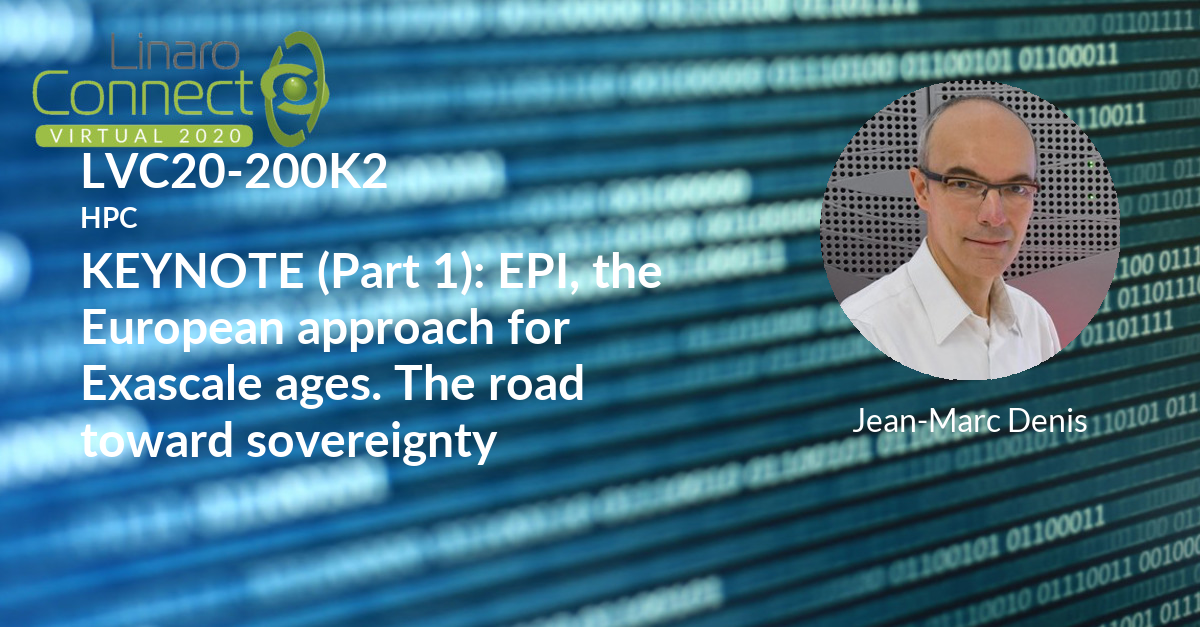
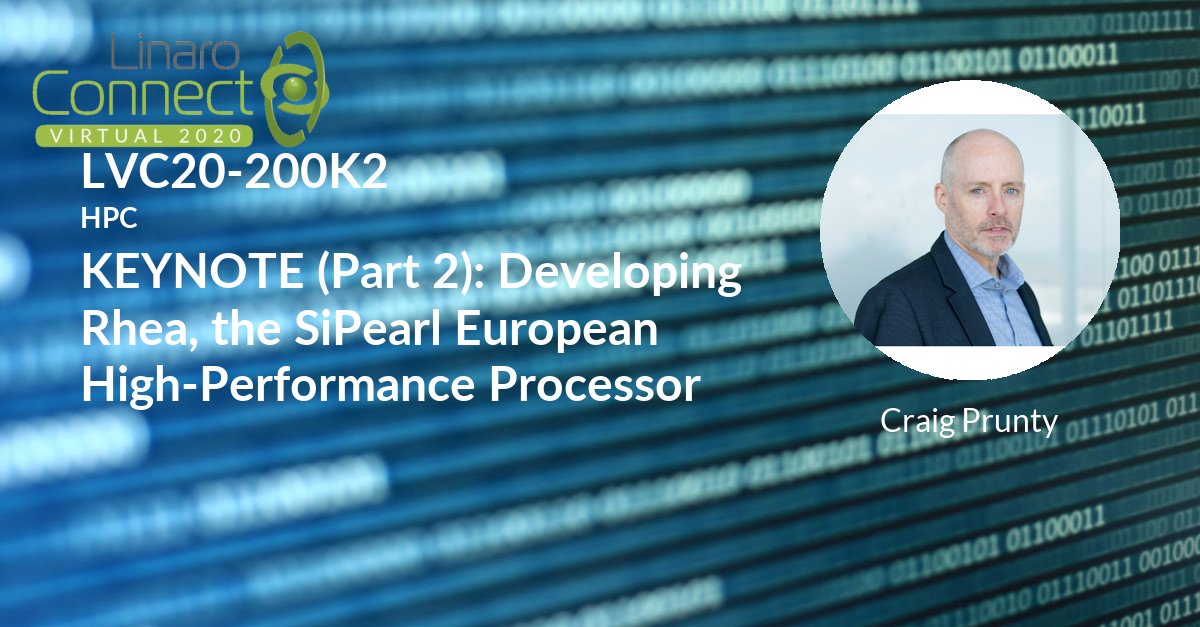
Session update for session-update-200918-1602

diff --git a/_posts/lvc20/sessions/2020-09-18-lvc20-200k1.md b/_posts/lvc20/sessions/2020-09-18-lvc20-200k1.md
@@ -1,36 +1,54 @@
 ---
 categories:
 - lvc20
-description: SiPearl was founded in 2019 as the production hand of the European Processor
-  Initiative. Now at 22 employees, we are growing fast to deploy our first generation
-  processor, Rhea, as the cornerstone of European Exascale systems. In this talk we
-  provide an overview of SiPearl and our objectives and discuss some of the top level
-  architecture choices and KPI to address our target markets. A fundamental for the
-  selection of Arm is the server software and partner ecosystem that has grown steadily
-  over the years thanks to the user community with the help of organizations such
-  as Linaro.
+description: 'The European Commission has set an extremely ambitious target to the
+  European Processor Initiative (EPI): develop the processor that will empower the
+  European Exascale machines, and laid the foundations of the European Sovereignty
+  for high-performance and low-power processing units. The European ambition and how
+  it is implemented is presented.'
 image: /assets/images/featured-images/lvc20/LVC20-200K1.png
 session_id: LVC20-200K1
 session_room: '[Track 1] IoT/Edge/Embedded'
 session_slot:
-  end_time: 2020-09-23 07:50
-  start_time: 2020-09-23 07:35
+  end_time: 2020-09-23 07:55
+  start_time: 2020-09-23 07:40
 session_speakers:
-- speaker_bio: Craig joined SiPearl in May 2020 as VP Marketing and Business Development.
-    Before moving to SiPearl, Craig was Marketing Director for Marvell Semiconductor’s
-    Server Processor Business Unit in Santa Clara, California. His 20+ years in the
-    Semiconductor industry include sales, marketing, and technical roles with Cavium,
-    AppliedMicro (AMCC), Lockheed-Martin, and Unisys. &amp;nbsp;Craig holds a B.S.
-    in Mathematics from Lewis &amp;amp; Clark College in Portland, Oregon, and an
-    MS in Electrical Engineering from San Diego State University.
+- speaker_bio: Since the beginning of 2020, Jean-Marc is the Chief of Staff of the
+    Innovation and Strategy Division at Atos. In addition, since mid-2018, Jean-Marc
+    has been also elected as Chair of the Board of the European Processor Initiative
+    (EPI).&lt;br&gt;Prior to that, Jean-Marc Denis took different positions in the
+    HPC industry.&lt;br&gt;After five years of research in the development of new
+    solvers for the for Maxwell equations at Matra Defense (France) as mathematician
+    from 1990 to 1995, Jean-Marc Denis had several technical position in the HPC industry
+    between 1995 to 2004 from &amp;nbsp;HPC pre-sales to Senior Solution Architect.&lt;br&gt;Since
+    mid if 2004 Jean-Marc has worked at Bull SAS head Quarter (France) where he has
+    started the HPC activity. In less than 10 years, the HPC revenue at Bull exploded
+    from nothing in 2004 to 200M€ in 2015, making Bull the undisputed leader of the
+    European HPC industry and the fourth in the world. From 2011 to the end of 2016,
+    Jean-Marc has leaded the worldwide business activity with the goal to consolidate
+    the ATOS/Bull position in Europe and to make ATOS/Bull a worldwide leader in Extreme
+    Computing with footprint in Middle-East, Asia, Africa and South America.&lt;br&gt;From
+    2018 to 2020, Jean-Marc has been the head of Strategy and Plan at Atos/Bull, in
+    charge of the global cross-Business Unit Strategy and of the definition of the
+    3 years business plan.&lt;br&gt;In 2016 and 2017, Jean-Marc has been in charge
+    of the definition of the strategy for the BigData Division at ATOS/Bull. In his
+    position, his role is to define the global approach for the different BigData
+    business lines covering HPC, Legacy (mainframe), Entreprise computing, DataScience
+    consulting and Software.&lt;br&gt;In parallel to his activities at ATOS/Bull,
+    since 2008, Jean-Marc Denis has taught “Supercomputer Architecture” concepts in
+    Master 2 degree at the University of Reims Champagne Ardennes (URCA), France.&lt;br&gt;Education&lt;ul&gt;&lt;li&gt;Masters
+    degree in Mathematics (U. of Tours, France, 1989)&lt;/li&gt;&lt;li&gt;Masters
+    degree in Computer Science (U. of Toulouse, France, 1990)&lt;/li&gt;&lt;li&gt;Engineering
+    diploma in Computer science, (ENSEEIHT, Toulouse, France, 1990)&lt;/li&gt;&lt;/ul&gt;
   speaker_company: SiPearl
-  speaker_image: http://avatars.sched.co/4/cb/11793143/avatar.jpg.320x320px.jpg?43a
-  speaker_name: Craig Prunty
-  speaker_position: SiPearl Vice President Marketing and Business Development
+  speaker_image: http://avatars.sched.co/a/30/11617155/avatar.jpg.320x320px.jpg?a0e
+  speaker_name: Jean-Marc Denis
+  speaker_position: Chief of Staff of the Innovation and Strategy Division at Atos,
+    Chair of the Board of the European Processor Initiative (EPI)
   speaker_role: speaker
 session_track: HPC
 tag: session
 tags: HPC
-title: 'LVC20-200K1 KEYNOTE (Part 1): Developing Rhea, the SiPearl European High-Performance
-  Processor'
+title: 'LVC20-200K1 KEYNOTE (Part 1): EPI, the European approach for Exascale ages.
+  The road toward sovereignty'
 ---

diff --git a/_posts/lvc20/sessions/2020-09-18-lvc20-200k2.md b/_posts/lvc20/sessions/2020-09-18-lvc20-200k2.md
@@ -1,54 +1,36 @@
 ---
 categories:
 - lvc20
-description: 'The European Commission has set an extremely ambitious target to the
-  European Processor Initiative (EPI): develop the processor that will empower the
-  European Exascale machines, and laid the foundations of the European Sovereignty
-  for high-performance and low-power processing units. The European ambition and how
-  it is implemented is presented.'
+description: SiPearl was founded in 2019 as the production hand of the European Processor
+  Initiative. Now at 22 employees, we are growing fast to deploy our first generation
+  processor, Rhea, as the cornerstone of European Exascale systems. In this talk we
+  provide an overview of SiPearl and our objectives and discuss some of the top level
+  architecture choices and KPI to address our target markets. A fundamental for the
+  selection of Arm is the server software and partner ecosystem that has grown steadily
+  over the years thanks to the user community with the help of organizations such
+  as Linaro.
 image: /assets/images/featured-images/lvc20/LVC20-200K2.png
 session_id: LVC20-200K2
 session_room: '[Track 1] IoT/Edge/Embedded'
 session_slot:
-  end_time: 2020-09-23 07:55
-  start_time: 2020-09-23 07:40
+  end_time: 2020-09-23 08:10
+  start_time: 2020-09-23 07:55
 session_speakers:
-- speaker_bio: Since the beginning of 2020, Jean-Marc is the Chief of Staff of the
-    Innovation and Strategy Division at Atos. In addition, since mid-2018, Jean-Marc
-    has been also elected as Chair of the Board of the European Processor Initiative
-    (EPI).&lt;br&gt;Prior to that, Jean-Marc Denis took different positions in the
-    HPC industry.&lt;br&gt;After five years of research in the development of new
-    solvers for the for Maxwell equations at Matra Defense (France) as mathematician
-    from 1990 to 1995, Jean-Marc Denis had several technical position in the HPC industry
-    between 1995 to 2004 from &amp;nbsp;HPC pre-sales to Senior Solution Architect.&lt;br&gt;Since
-    mid if 2004 Jean-Marc has worked at Bull SAS head Quarter (France) where he has
-    started the HPC activity. In less than 10 years, the HPC revenue at Bull exploded
-    from nothing in 2004 to 200M€ in 2015, making Bull the undisputed leader of the
-    European HPC industry and the fourth in the world. From 2011 to the end of 2016,
-    Jean-Marc has leaded the worldwide business activity with the goal to consolidate
-    the ATOS/Bull position in Europe and to make ATOS/Bull a worldwide leader in Extreme
-    Computing with footprint in Middle-East, Asia, Africa and South America.&lt;br&gt;From
-    2018 to 2020, Jean-Marc has been the head of Strategy and Plan at Atos/Bull, in
-    charge of the global cross-Business Unit Strategy and of the definition of the
-    3 years business plan.&lt;br&gt;In 2016 and 2017, Jean-Marc has been in charge
-    of the definition of the strategy for the BigData Division at ATOS/Bull. In his
-    position, his role is to define the global approach for the different BigData
-    business lines covering HPC, Legacy (mainframe), Entreprise computing, DataScience
-    consulting and Software.&lt;br&gt;In parallel to his activities at ATOS/Bull,
-    since 2008, Jean-Marc Denis has taught “Supercomputer Architecture” concepts in
-    Master 2 degree at the University of Reims Champagne Ardennes (URCA), France.&lt;br&gt;Education&lt;ul&gt;&lt;li&gt;Masters
-    degree in Mathematics (U. of Tours, France, 1989)&lt;/li&gt;&lt;li&gt;Masters
-    degree in Computer Science (U. of Toulouse, France, 1990)&lt;/li&gt;&lt;li&gt;Engineering
-    diploma in Computer science, (ENSEEIHT, Toulouse, France, 1990)&lt;/li&gt;&lt;/ul&gt;
+- speaker_bio: Craig joined SiPearl in May 2020 as VP Marketing and Business Development.
+    Before moving to SiPearl, Craig was Marketing Director for Marvell Semiconductor’s
+    Server Processor Business Unit in Santa Clara, California. His 20+ years in the
+    Semiconductor industry include sales, marketing, and technical roles with Cavium,
+    AppliedMicro (AMCC), Lockheed-Martin, and Unisys. &amp;nbsp;Craig holds a B.S.
+    in Mathematics from Lewis &amp;amp; Clark College in Portland, Oregon, and an
+    MS in Electrical Engineering from San Diego State University.
   speaker_company: SiPearl
-  speaker_image: http://avatars.sched.co/a/30/11617155/avatar.jpg.320x320px.jpg?a0e
-  speaker_name: Jean-Marc Denis
-  speaker_position: Chief of Staff of the Innovation and Strategy Division at Atos,
-    Chair of the Board of the European Processor Initiative (EPI)
+  speaker_image: http://avatars.sched.co/4/cb/11793143/avatar.jpg.320x320px.jpg?43a
+  speaker_name: Craig Prunty
+  speaker_position: SiPearl Vice President Marketing and Business Development
   speaker_role: speaker
 session_track: HPC
 tag: session
 tags: HPC
-title: 'LVC20-200K2 KEYNOTE (Part 1): EPI, the European approach for Exascale ages.
-  The road toward sovereignty'
+title: 'LVC20-200K2 KEYNOTE (Part 2): Developing Rhea, the SiPearl European High-Performance
+  Processor'
 ---

diff --git a/_posts/lvc20/sessions/2020-09-18-lvc20-100k1.md b/_posts/lvc20/sessions/2020-09-18-lvc20-100k1.md
@@ -1,0 +1,31 @@
+---
+categories:
+- lvc20
+description: Opening Keynote, Linaro CEO&nbsp;
+image: /assets/images/featured-images/lvc20/LVC20-100K1.png
+session_id: LVC20-100K1
+session_room: '[Track 1] IoT/Edge/Embedded'
+session_slot:
+  end_time: 2020-09-22 11:10
+  start_time: 2020-09-22 10:45
+session_speakers:
+- speaker_bio: Li Gong is a globally experienced technologist and executive, with
+    deep background in computer science, research and product development, and open
+    source technologies. He has worked in senior leadership roles extensively in the
+    US and in Asia, having served as President and COO at Mozilla Corporation, General
+    Manager at Microsoft, as well as Distinguished Engineer at Sun Microsystems and
+    Distinguished Scientist at SRI International. He graduated from Tsinghua University,
+    Beijing, and received a PhD from University of Cambridge. In 1994 he received
+    the Leonard G. Abraham Prize given by the IEEE Communications Society for “the
+    most significant contribution to technical literature in the field of interest
+    of the IEEE.”
+  speaker_company: Linaro
+  speaker_image: http://avatars.sched.co/3/53/7235639/avatar.jpg.320x320px.jpg?82f
+  speaker_name: Li Gong
+  speaker_position: CEO
+  speaker_role: attendee, speaker
+session_track: Keynote
+tag: session
+tags: Keynote
+title: LVC20-100K1 Opening Keynote by Li Gong Linaro CEO
+---
